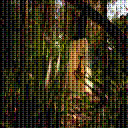
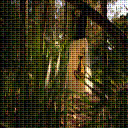
Remove unnecessary statements

diff --git a/src/postprocess.py b/src/postprocess.py
@@ -199,8 +199,7 @@ def ccds_compression_channel(image_channel: NDArray[np.uint8], config: CCDSConfi
         
         if len(compressed_data) >= config.max_size:
             break
-    
-    print(f"  Encoded {len(encoded_planes)} bit planes, header size: {header_size}")
+
     return bytes(compressed_data), headers, encoded_planes
 
 def ccds_decompression_channel(compressed_data: bytes, config: CCDSConfig) -> NDArray[np.uint8]:
@@ -217,7 +216,6 @@ def ccds_decompression_channel(compressed_data: bytes, config: CCDSConfig) -> ND
         offset += SubbandHeader.size()
     
     header_size = offset
-    print(f"  Header size: {header_size}, {num_subbands} subbands")
     
     # Initialize subbands
     reconstructed_subbands = []
@@ -291,7 +289,6 @@ def rgb_compression(image_rgb: NDArray[np.uint8], config: Optional[CCDSConfig] =
     all_compressed = bytearray()
     
     for i, channel in enumerate(channels):
-        print(f"Compressing channel {i}...")
         compressed, headers, encoded_planes = ccds_compression_channel(channel, channel_config)
         
         # Pad to exact channel size for easier splitting during decompression
@@ -300,7 +297,6 @@ def rgb_compression(image_rgb: NDArray[np.uint8], config: Optional[CCDSConfig] =
             channel_data.append(0)
         
         all_compressed.extend(channel_data[:channel_size])
-        print(f"  Channel {i}: {len(compressed)} bytes")
     
     return bytes(all_compressed)
 
@@ -321,8 +317,6 @@ def rgb_decompression(compressed_data: bytes, image_shape: Tuple[int, int, int],
         start = i * channel_size
         end = start + channel_size
         channel_data = compressed_data[start:end]
-        
-        print(f"Decompressing channel {i}...")
         reconstructed = ccds_decompression_channel(channel_data, channel_config)
         channels.append(reconstructed)
     
@@ -346,7 +340,6 @@ def test_ccds():
         # Use a reasonable test size
         test_size = (128, 128)
         rgb_small = np.array(Image.fromarray(rgb).resize(test_size))
-        print(f"Test image shape: {rgb_small.shape}")
 
         # Save original
         original_file = output_path / f"original_{nef_file.stem}.png"
@@ -355,10 +348,10 @@ def test_ccds():
         # Test compression - slightly more generous settings
         config = CCDSConfig(max_size=15000, wavelet_levels=2, bit_planes=8)
         
-        print("Compressing...")
+        # Compression
         compressed = rgb_compression(rgb_small, config)
         
-        print("Decompressing...")
+        # Decompression
         decoded_rgb = rgb_decompression(compressed, rgb_small.shape, config)
         
         # Save results
